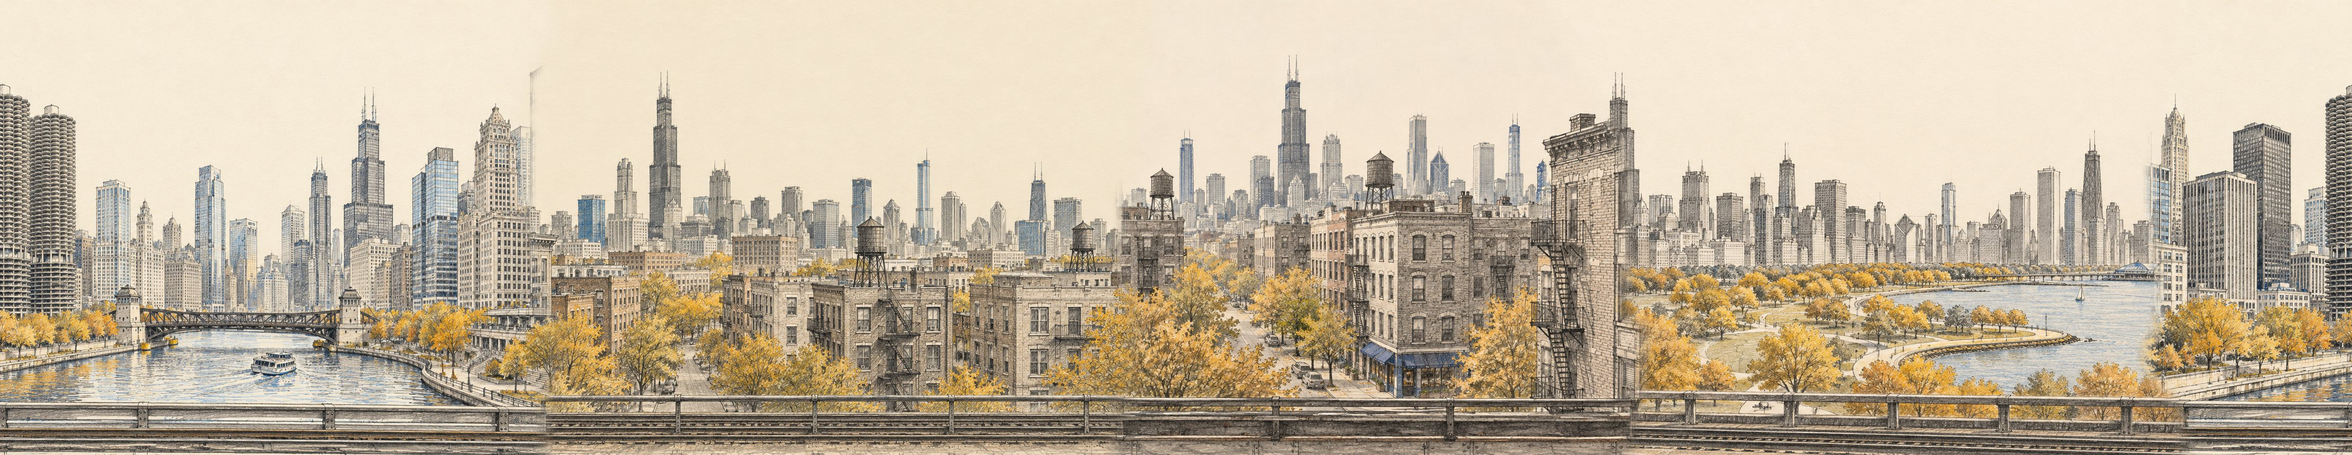
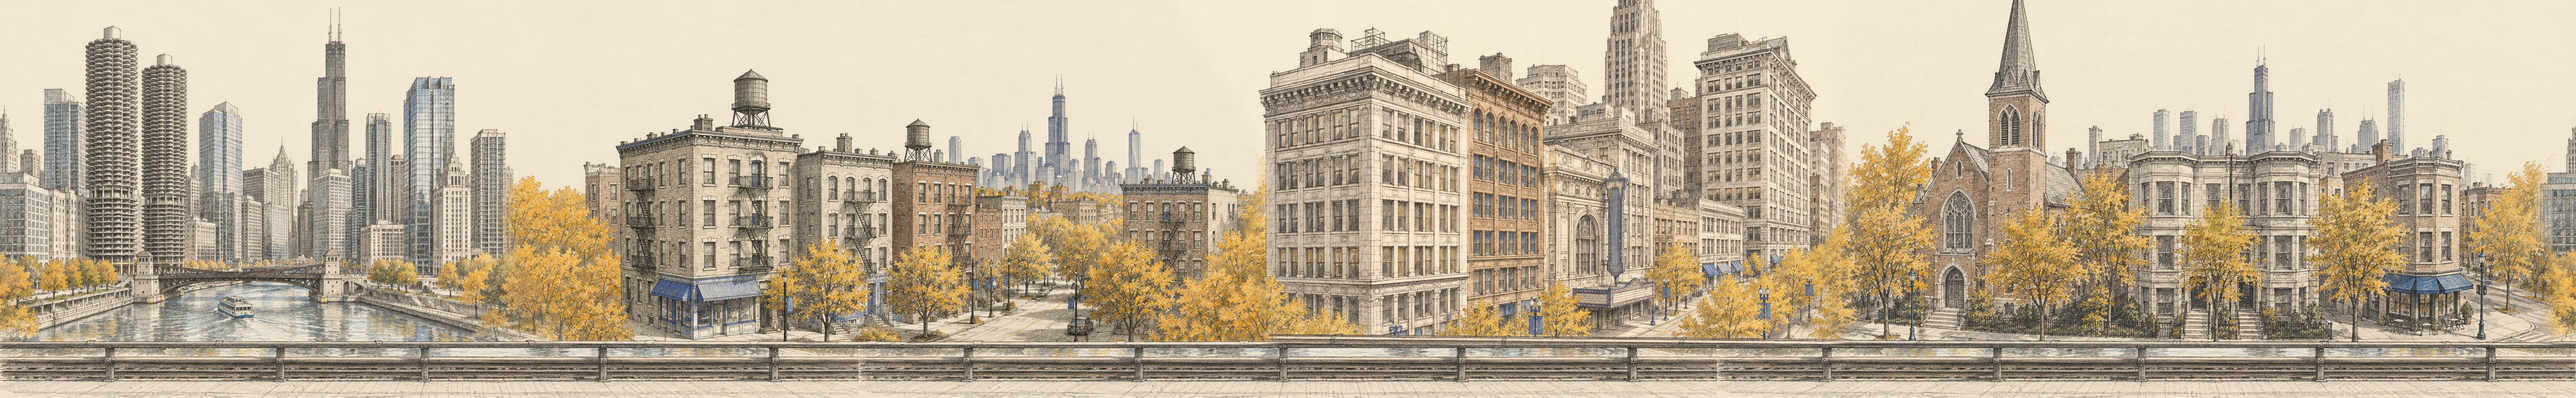
Chicago ride: edge-matched stretches that flow as one city, one shared railing, closer in; size to the screen only when the page runs under the status bar

diff --git a/js/app.js b/js/app.js
@@ -1,5 +1,5 @@
-import { STYLES, CITIES, SEASONS, sceneUrl, hasScene, cityThumb, nearestScene } from './scenes.js?v=6';
-import * as spotify from './spotify.js?v=6';
+import { STYLES, CITIES, SEASONS, sceneUrl, hasScene, cityThumb, nearestScene } from './scenes.js?v=7';
+import * as spotify from './spotify.js?v=7';
 
 const $ = (id) => document.getElementById(id);
 const app = $('app');
@@ -17,13 +17,22 @@ let ride = { style: 'pencil', city: 'Chicago', season: 'Autumn', mode: 'windowed
 Object.assign(ride, nearestScene(ride));
 
 // ---------- Fill the whole screen ----------
-// Opened from the home screen, iOS reports a viewport shorter than the screen
-// (by about the status bar), so size the app to the real screen height.
+// Opened from the home screen, iOS sometimes reports a viewport shorter than
+// the screen (by about the status bar) while the page really runs under the
+// status bar. Only then size the app to the screen; when the page starts below
+// the status bar (no top inset), the reported height is the true one, and
+// using the screen height would push the bottom off.
+const insetProbe = document.createElement('div');
+insetProbe.style.cssText = 'position:fixed;top:0;height:env(safe-area-inset-top,0px);width:0;visibility:hidden;pointer-events:none';
+document.body.append(insetProbe);
 function fitScreen() {
   const standalone = navigator.standalone || matchMedia('(display-mode: standalone)').matches;
   const portrait = innerHeight > innerWidth;
-  const h = standalone && portrait ? Math.max(innerHeight, screen.height) : innerHeight;
-  document.documentElement.style.setProperty('--app-h', `${h}px`);
+  const underStatusBar = insetProbe.offsetHeight > 0;
+  const h = standalone && portrait && underStatusBar
+    ? Math.min(screen.height, innerHeight + insetProbe.offsetHeight)
+    : innerHeight;
+  document.documentElement.style.setProperty('--app-h', `${Math.max(h, innerHeight)}px`);
   // The page must never scroll, or iOS taps land off from what's drawn.
   if (scrollX || scrollY) scrollTo(0, 0);
 }
@@ -31,6 +40,9 @@ fitScreen();
 addEventListener('resize', fitScreen);
 addEventListener('scroll', () => scrollTo(0, 0));
 addEventListener('orientationchange', () => setTimeout(fitScreen, 300));
+// iOS can change the viewport while the app sits in the background.
+addEventListener('pageshow', fitScreen);
+document.addEventListener('visibilitychange', () => { if (!document.hidden) setTimeout(fitScreen, 200); });
 
 // ---------- Touch debug (hold a finger still for 1.5 s to toggle) ----------
 let debugOn = false;
@@ -57,7 +69,7 @@ addEventListener('pointerdown', (e) => {
     `button: ${t.closest('button')?.id || t.closest('button')?.getAttribute('aria-label') || 'none'}\n` +
     `inner ${innerWidth}x${innerHeight}  screen ${screen.width}x${screen.height}\n` +
     `vv ${Math.round(vv.width)}x${Math.round(vv.height)} top ${Math.round(vv.offsetTop)}  scroll ${scrollX},${scrollY}\n` +
-    `app-h ${getComputedStyle(document.documentElement).getPropertyValue('--app-h')}  standalone ${Boolean(navigator.standalone)}`;
+    `app-h ${getComputedStyle(document.documentElement).getPropertyValue('--app-h')}  inset-top ${insetProbe.offsetHeight}  standalone ${Boolean(navigator.standalone)}`;
 }, { capture: true });
 addEventListener('pointerup', () => clearTimeout(holdTimer), { capture: true });
 addEventListener('pointercancel', () => clearTimeout(holdTimer), { capture: true });

diff --git a/index.html b/index.html
@@ -15,7 +15,7 @@
 <link rel="preconnect" href="https://fonts.googleapis.com">
 <link rel="preconnect" href="https://fonts.gstatic.com" crossorigin>
 <link href="https://fonts.googleapis.com/css2?family=Instrument+Serif&family=Inter:wght@400;500;600&display=swap" rel="stylesheet">
-<link rel="stylesheet" href="css/app.css?v=6">
+<link rel="stylesheet" href="css/app.css?v=7">
 </head>
 <body>
 <main class="app" id="app" data-mode="windowed">
@@ -91,6 +91,6 @@
   <button type="button" class="signout" id="signoutBtn" hidden>Disconnect Spotify</button>
 </section>
 
-<script type="module" src="js/app.js?v=6"></script>
+<script type="module" src="js/app.js?v=7"></script>
 </body>
 </html>

diff --git a/js/spotify.js b/js/spotify.js
@@ -1,7 +1,7 @@
 // Spotify: sign in with PKCE (no server, no secret), read what's playing,
 // and send play / pause / next / previous. Controls need Spotify Premium.
 
-import { SPOTIFY_CLIENT_ID } from './config.js?v=6';
+import { SPOTIFY_CLIENT_ID } from './config.js?v=7';
 
 const SCOPES = 'user-read-currently-playing user-read-playback-state user-modify-playback-state';
 const STORE = 'ws.spotify';

diff --git a/js/scenes.js b/js/scenes.js
@@ -23,7 +23,7 @@ export const STYLES = {
 };
 
 // Bump when scene images change so phones fetch the new art.
-const ART_VERSION = 2;
+const ART_VERSION = 3;
 
 export const CITIES =['Chicago', 'Tokyo', 'Paris', 'Lisbon', 'Kyoto', 'Amsterdam'];
 export const SEASONS = ['Spring', 'Summer', 'Autumn', 'Winter'];
